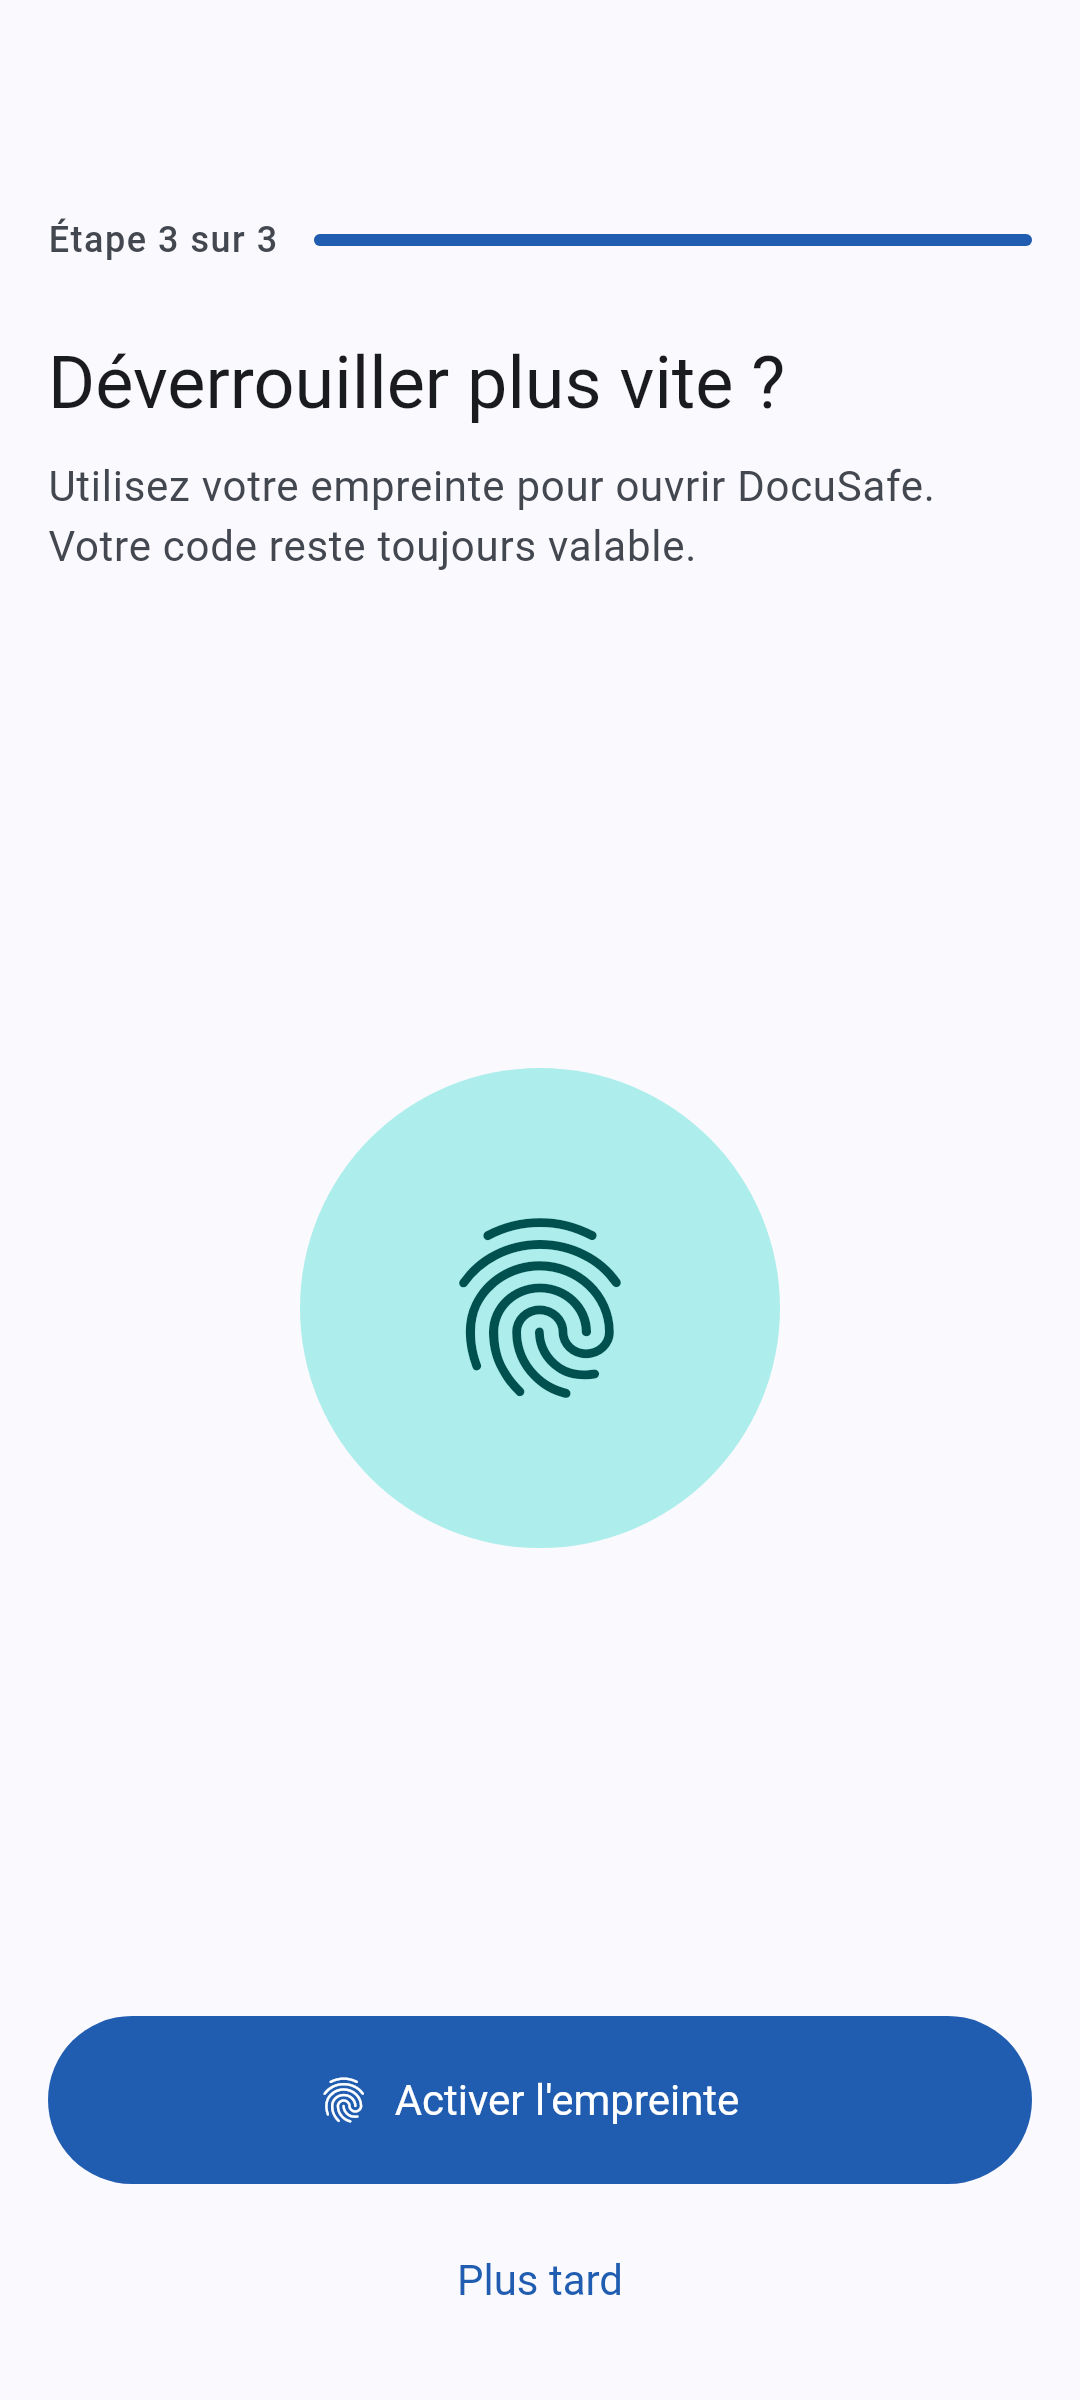
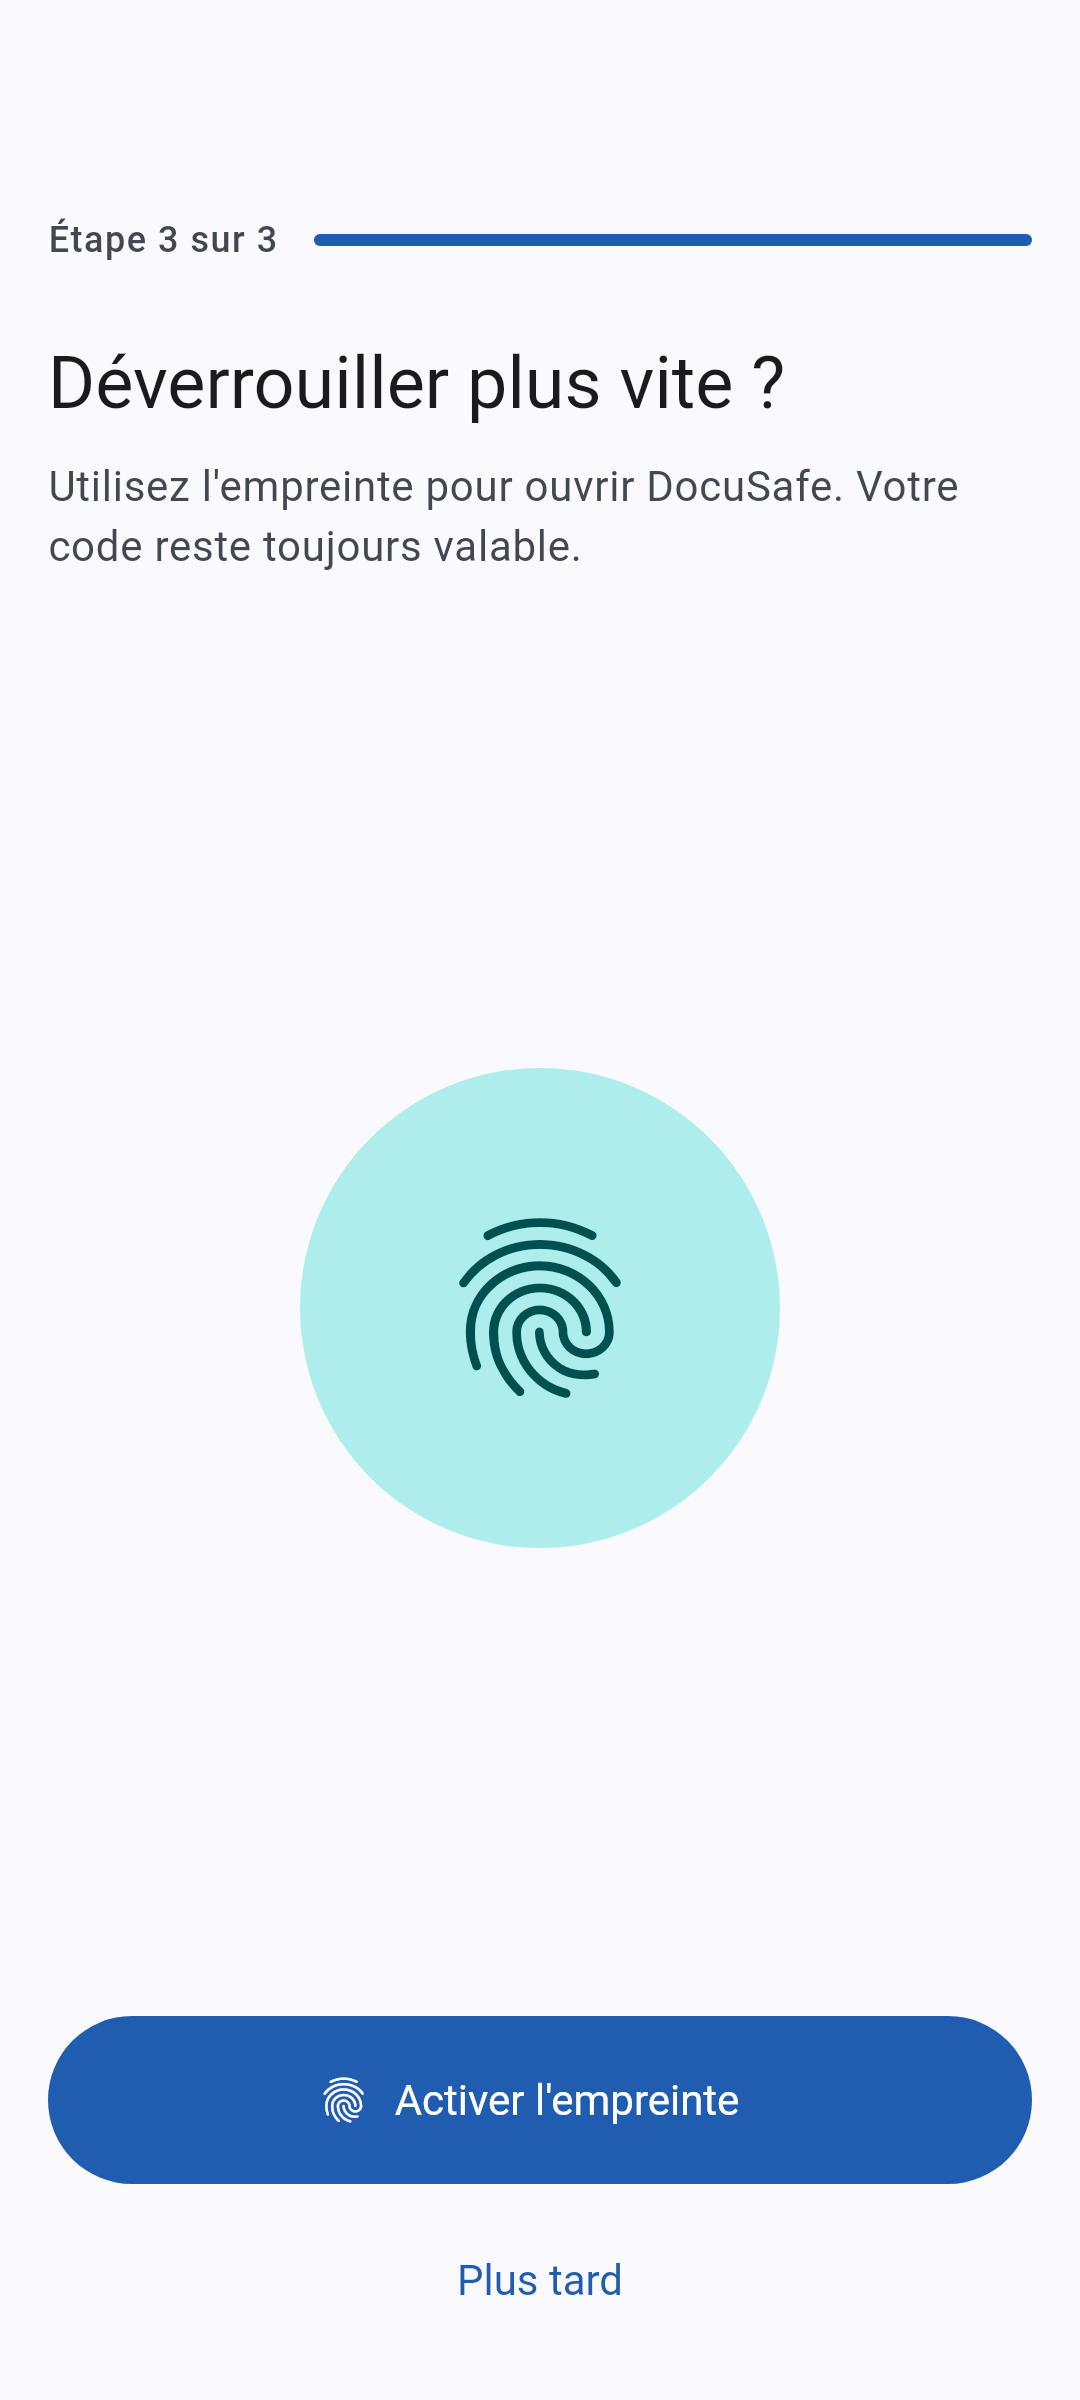
Biométrie : Face ID / Touch ID sur iPhone, visage ou empreinte sur Android
- Textes et icônes choisis d'après le type détecté et la plateforme
- Écran de déverrouillage : icône et libellé selon le type disponible
- Captures iOS régénérées avec Face ID

Claude-Session: https://claude.ai/code/session_01KF9JQrCRT5jVBPSWmwmryF

Changed region(s): [[0.0306, 0.1875, 0.8861, 0.25]]

diff --git a/lib/features/auth/presentation/setup/setup_screen.dart b/lib/features/auth/presentation/setup/setup_screen.dart
@@ -5,7 +5,7 @@ import 'package:material_ui/material_ui.dart';
 import '../../../../app/l10n/generated/app_localizations.dart';
 import '../../../../app/router/routes.dart';
 import '../../../../app/theme/app_spacing.dart';
-import '../../../../core/security/auth/biometric_service.dart';
+import '../../../../core/security/auth/biometric_labels.dart';
 import '../../../../core/widgets/bottom_actions.dart';
 import '../../../../core/widgets/illustration_circle.dart';
 import '../../../../core/widgets/step_header.dart';
@@ -161,7 +161,8 @@ final class _BiometricStep extends StatelessWidget {
   @override
   Widget build(BuildContext context) {
     final l10n = AppLocalizations.of(context);
-    final face = state.biometricKind == BiometricKind.face;
+    final kind = state.biometricKind;
+    final method = BiometricLabels.inSentence(l10n, kind);
     final busy = state.stage == SetupStage.enablingBiometric;
     final error = state.errorMessage(l10n);
     return Column(
@@ -170,12 +171,12 @@ final class _BiometricStep extends StatelessWidget {
           step: 3,
           total: 3,
           title: l10n.setupBiometricTitle,
-          body: face ? l10n.setupBiometricBodyFace : l10n.setupBiometricBody,
+          body: l10n.setupBiometricBody(method),
         ),
         Expanded(
           child: Center(
             child: IllustrationCircle(
-              icon: face ? Icons.face_rounded : Icons.fingerprint_rounded,
+              icon: BiometricLabels.icon(kind),
               security: true,
             ),
           ),
@@ -192,10 +193,8 @@ final class _BiometricStep extends StatelessWidget {
         BottomActions(
           children: [
             LargeFilledButton(
-              label: face
-                  ? l10n.setupBiometricEnableFace
-                  : l10n.setupBiometricEnable,
-              icon: face ? Icons.face_rounded : Icons.fingerprint_rounded,
+              label: l10n.setupBiometricEnable(method),
+              icon: BiometricLabels.icon(kind),
               onPressed: busy ? null : vm.enableBiometrics,
             ),
             TextButton(

diff --git a/lib/core/security/auth/biometric_labels.dart b/lib/core/security/auth/biometric_labels.dart
@@ -1,0 +1,42 @@
+import 'package:flutter/foundation.dart';
+import 'package:material_ui/material_ui.dart' show IconData, Icons;
+
+import '../../../app/l10n/generated/app_localizations.dart';
+import 'biometric_service.dart';
+
+/// Noms de la biométrie à l'écran.
+///
+/// Sur iPhone, Apple demande d'employer les noms « Face ID » et « Touch ID ».
+/// Sur Android, DocuSafe parle d'« empreinte » et de « reconnaissance du
+/// visage » (docs/07-design.md : mots du quotidien).
+abstract final class BiometricLabels {
+  static bool get _apple =>
+      defaultTargetPlatform == TargetPlatform.iOS ||
+      defaultTargetPlatform == TargetPlatform.macOS;
+
+  /// Forme utilisée dans une phrase : « Utilisez *Face ID* pour ouvrir… ».
+  static String inSentence(AppLocalizations l10n, BiometricKind kind) =>
+      switch (kind) {
+        BiometricKind.face =>
+          _apple ? l10n.biometricFaceId : l10n.biometricFace,
+        BiometricKind.fingerprint =>
+          _apple ? l10n.biometricTouchId : l10n.biometricFingerprint,
+        _ => l10n.biometricGeneric,
+      };
+
+  /// Forme utilisée comme titre : « Face ID », « Empreinte digitale ».
+  static String title(AppLocalizations l10n, BiometricKind kind) =>
+      switch (kind) {
+        BiometricKind.face =>
+          _apple ? l10n.biometricFaceId : l10n.biometricFaceTitle,
+        BiometricKind.fingerprint =>
+          _apple ? l10n.biometricTouchId : l10n.biometricFingerprintTitle,
+        _ => l10n.biometricGenericTitle,
+      };
+
+  /// Icône correspondante.
+  static IconData icon(BiometricKind kind) => switch (kind) {
+    BiometricKind.face => Icons.face_rounded,
+    _ => Icons.fingerprint_rounded,
+  };
+}

diff --git a/lib/features/settings/presentation/security_settings_screen.dart b/lib/features/settings/presentation/security_settings_screen.dart
@@ -8,6 +8,7 @@ import '../../../app/theme/app_spacing.dart';
 import '../../../core/config/app_config.dart';
 import '../../../core/errors/app_exception.dart';
 import '../../../core/providers.dart';
+import '../../../core/security/auth/biometric_labels.dart';
 import '../../../core/security/auth/biometric_service.dart';
 import '../../../core/utils/duration_format.dart';
 import '../../../core/utils/error_messages.dart';
@@ -36,8 +37,8 @@ final class SecuritySettingsScreen extends ConsumerWidget {
       }
     });
 
-    final face = state.biometricKind == BiometricKind.face;
-    final biometricAvailable = state.biometricKind != BiometricKind.none;
+    final kind = state.biometricKind;
+    final biometricAvailable = kind != BiometricKind.none;
 
     return Scaffold(
       appBar: AppBar(title: Text(l10n.settingsSecurityTitle)),
@@ -53,12 +54,12 @@ final class SecuritySettingsScreen extends ConsumerWidget {
             },
           ),
           SettingsTile.toggle(
-            icon: face ? Icons.face_rounded : Icons.fingerprint_rounded,
-            title: face ? l10n.settingsBiometricFace : l10n.settingsBiometric,
+            icon: BiometricLabels.icon(kind),
+            title: BiometricLabels.title(l10n, kind),
             subtitle: biometricAvailable
-                ? (face
-                      ? l10n.settingsBiometricSubtitleFace
-                      : l10n.settingsBiometricSubtitle)
+                ? l10n.settingsBiometricSubtitle(
+                    BiometricLabels.inSentence(l10n, kind),
+                  )
                 : l10n.settingsBiometricUnavailable,
             value: state.biometricEnabled,
             onChanged: biometricAvailable && !state.busy

diff --git a/lib/features/auth/presentation/unlock/unlock_screen.dart b/lib/features/auth/presentation/unlock/unlock_screen.dart
@@ -8,6 +8,8 @@ import '../../../../app/l10n/generated/app_localizations.dart';
 import '../../../../app/router/routes.dart';
 import '../../../../app/theme/app_spacing.dart';
 import '../../../../core/providers.dart';
+import '../../../../core/security/auth/biometric_labels.dart';
+import '../../../../core/security/auth/biometric_service.dart';
 import '../../../../core/security/lock/vault_state.dart';
 import '../../../../core/utils/duration_format.dart';
 import '../../../../core/widgets/ds_logo.dart';
@@ -45,6 +47,8 @@ final class _UnlockScreenState extends ConsumerState<UnlockScreen> {
     final vm = ref.read(unlockViewModelProvider.notifier);
     final vault = ref.watch(vaultControllerProvider);
     final biometricEnabled = vault is VaultLocked && vault.biometricEnabled;
+    final biometricKind =
+        ref.watch(biometricKindProvider).value ?? BiometricKind.fingerprint;
     final biometricChanged =
         vault is VaultLocked && vault.reason == LockReason.biometricChanged;
     final lockout = state.remainingLockout;
@@ -97,7 +101,10 @@ final class _UnlockScreenState extends ConsumerState<UnlockScreen> {
                 busy: state.busy,
                 resetToken: state.resetToken,
                 onBiometric: biometricEnabled ? vm.tryBiometrics : null,
-                biometricLabel: l10n.unlockBiometricButton,
+                biometricIcon: BiometricLabels.icon(biometricKind),
+                biometricLabel: l10n.unlockBiometricButton(
+                  BiometricLabels.inSentence(l10n, biometricKind),
+                ),
                 below: Center(
                   child: TextButton(
                     onPressed: () => context.push(Routes.lockRecovery),

diff --git a/test/screenshots/screenshots_test.dart b/test/screenshots/screenshots_test.dart
@@ -120,6 +120,10 @@ void main() {
     List<Override> extra = const [],
     BiometricService? biometrics,
   }) async {
+    // iPhone : Face ID ; Android : empreinte.
+    biometrics ??= _FakeBiometrics(
+      ios ? BiometricKind.face : BiometricKind.fingerprint,
+    );
     if (ios) {
       debugDefaultTargetPlatformOverride = TargetPlatform.iOS;
       useIphoneSize(tester);
@@ -181,9 +185,11 @@ void main() {
         extra: [
           setupViewModelProvider.overrideWith(
             () => _FixedSetup(
-              const SetupState(
+              SetupState(
                 stage: SetupStage.biometric,
-                biometricKind: BiometricKind.fingerprint,
+                biometricKind: ios
+                    ? BiometricKind.face
+                    : BiometricKind.fingerprint,
               ),
             ),
           ),
@@ -261,6 +267,19 @@ void main() {
       unawaited(containerOf(tester).read(routerProvider).push(Routes.legalPrivacy));
     });
   }, skip: !enabled);
+}
+
+/// Biométrie simulée : disponible, jamais reconnue.
+final class _FakeBiometrics implements BiometricService {
+  const _FakeBiometrics(this.kind);
+
+  final BiometricKind kind;
+
+  @override
+  Future<BiometricKind> availableKind() async => kind;
+
+  @override
+  Future<bool> authenticate({required String reason}) async => false;
 }
 
 final class _FixedSetup extends SetupViewModel {

diff --git a/lib/core/providers.dart b/lib/core/providers.dart
@@ -47,6 +47,12 @@ final biometricServiceProvider = Provider<BiometricService>(
   (ref) => LocalAuthBiometricService(),
 );
 
+/// Type de biométrie forte disponible sur ce téléphone (visage, empreinte,
+/// aucune). Détermine les textes et les icônes.
+final biometricKindProvider = FutureProvider<BiometricKind>(
+  (ref) => ref.watch(biometricServiceProvider).availableKind(),
+);
+
 final screenSecurityProvider = Provider<ScreenSecurity>(
   (ref) => const ChannelScreenSecurity(),
 );
